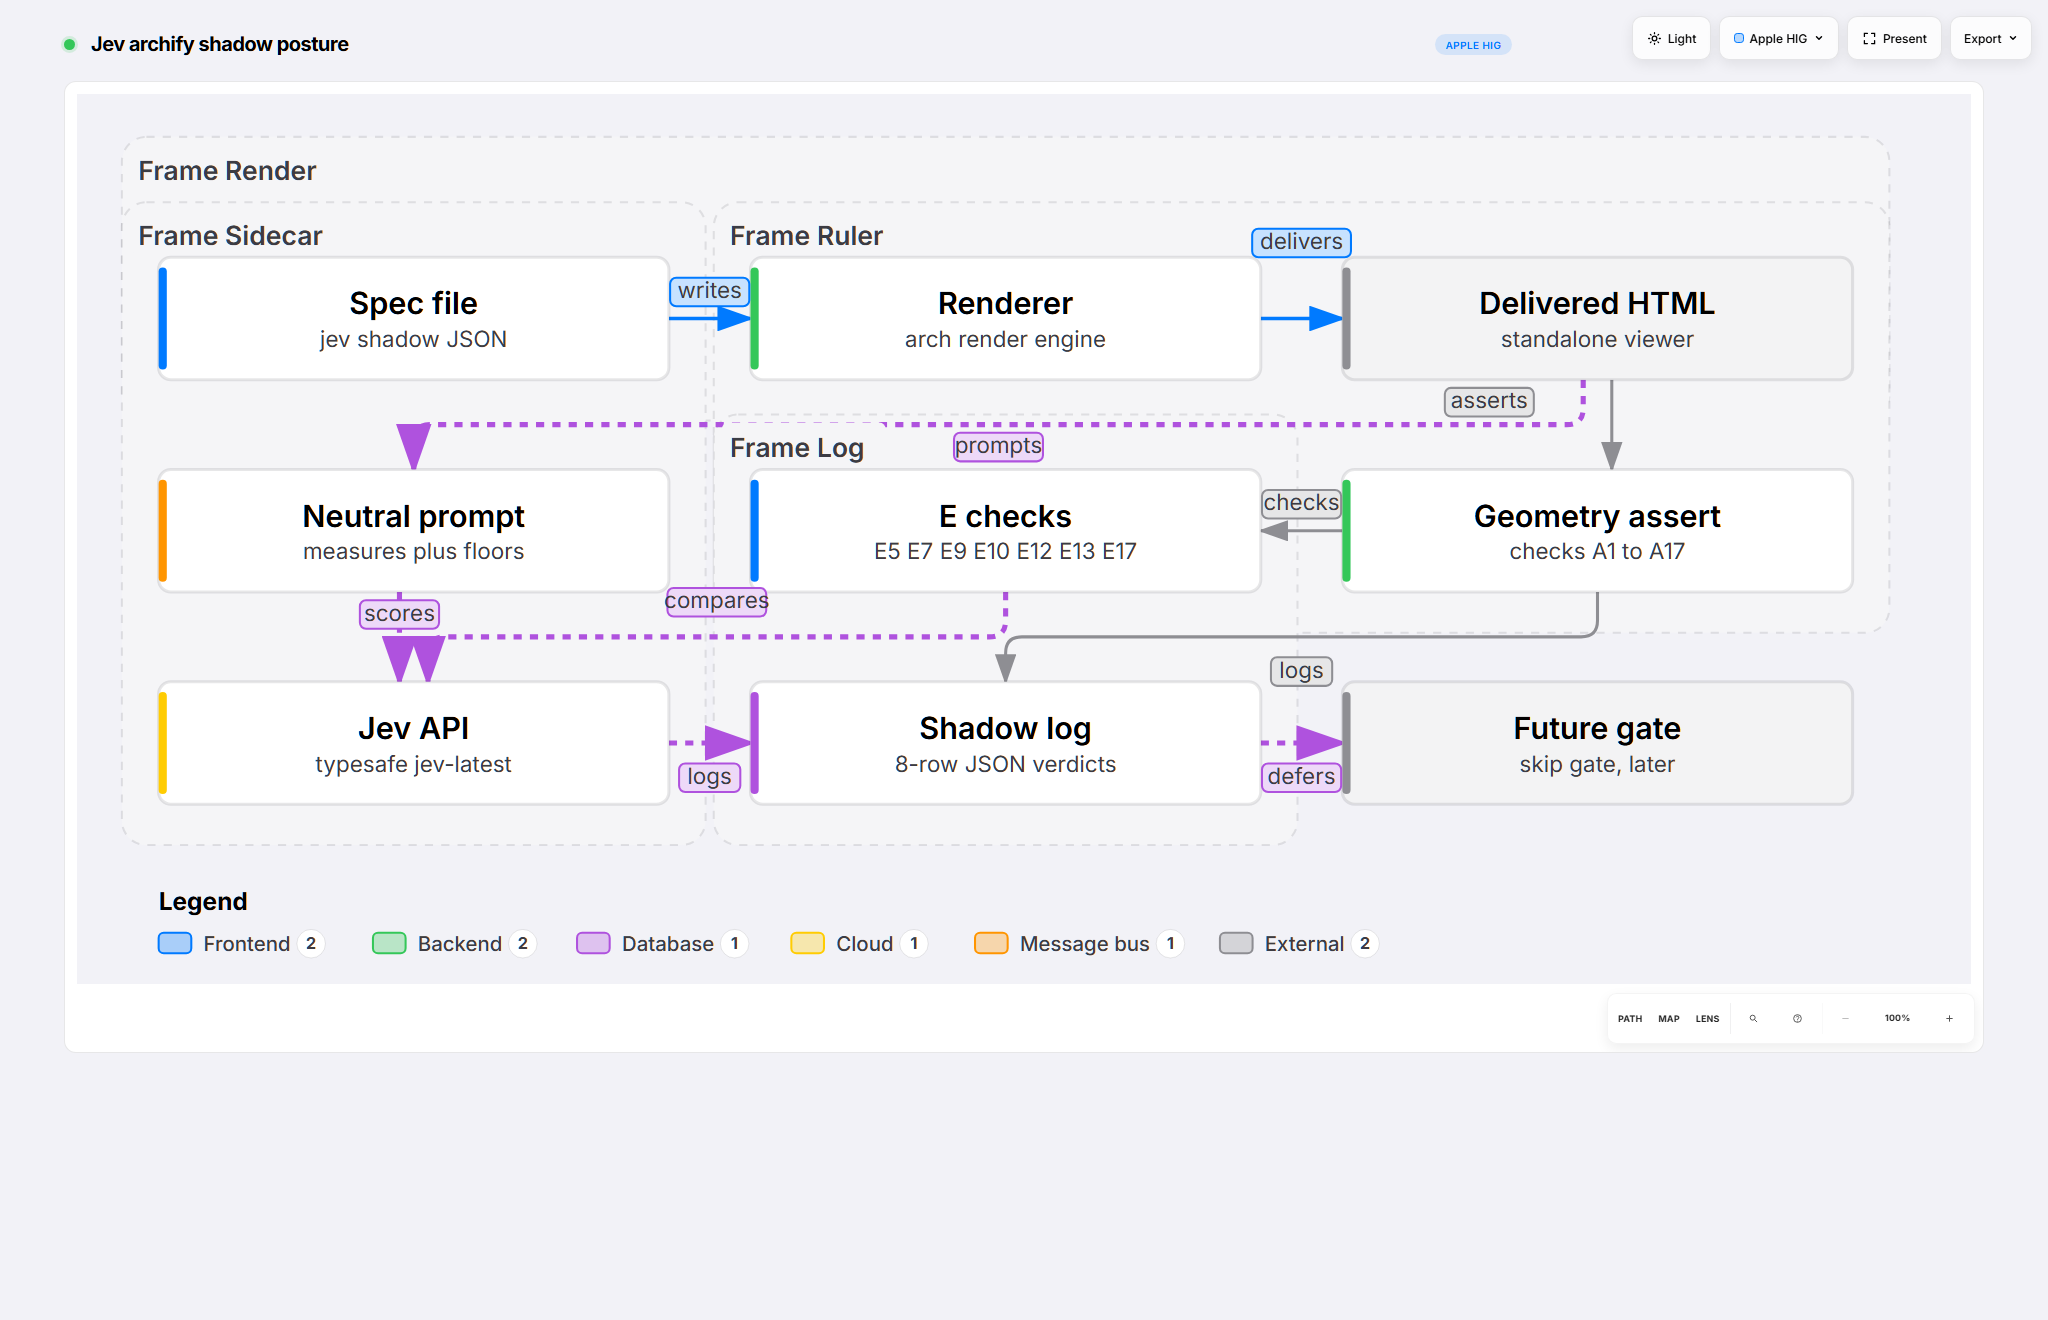
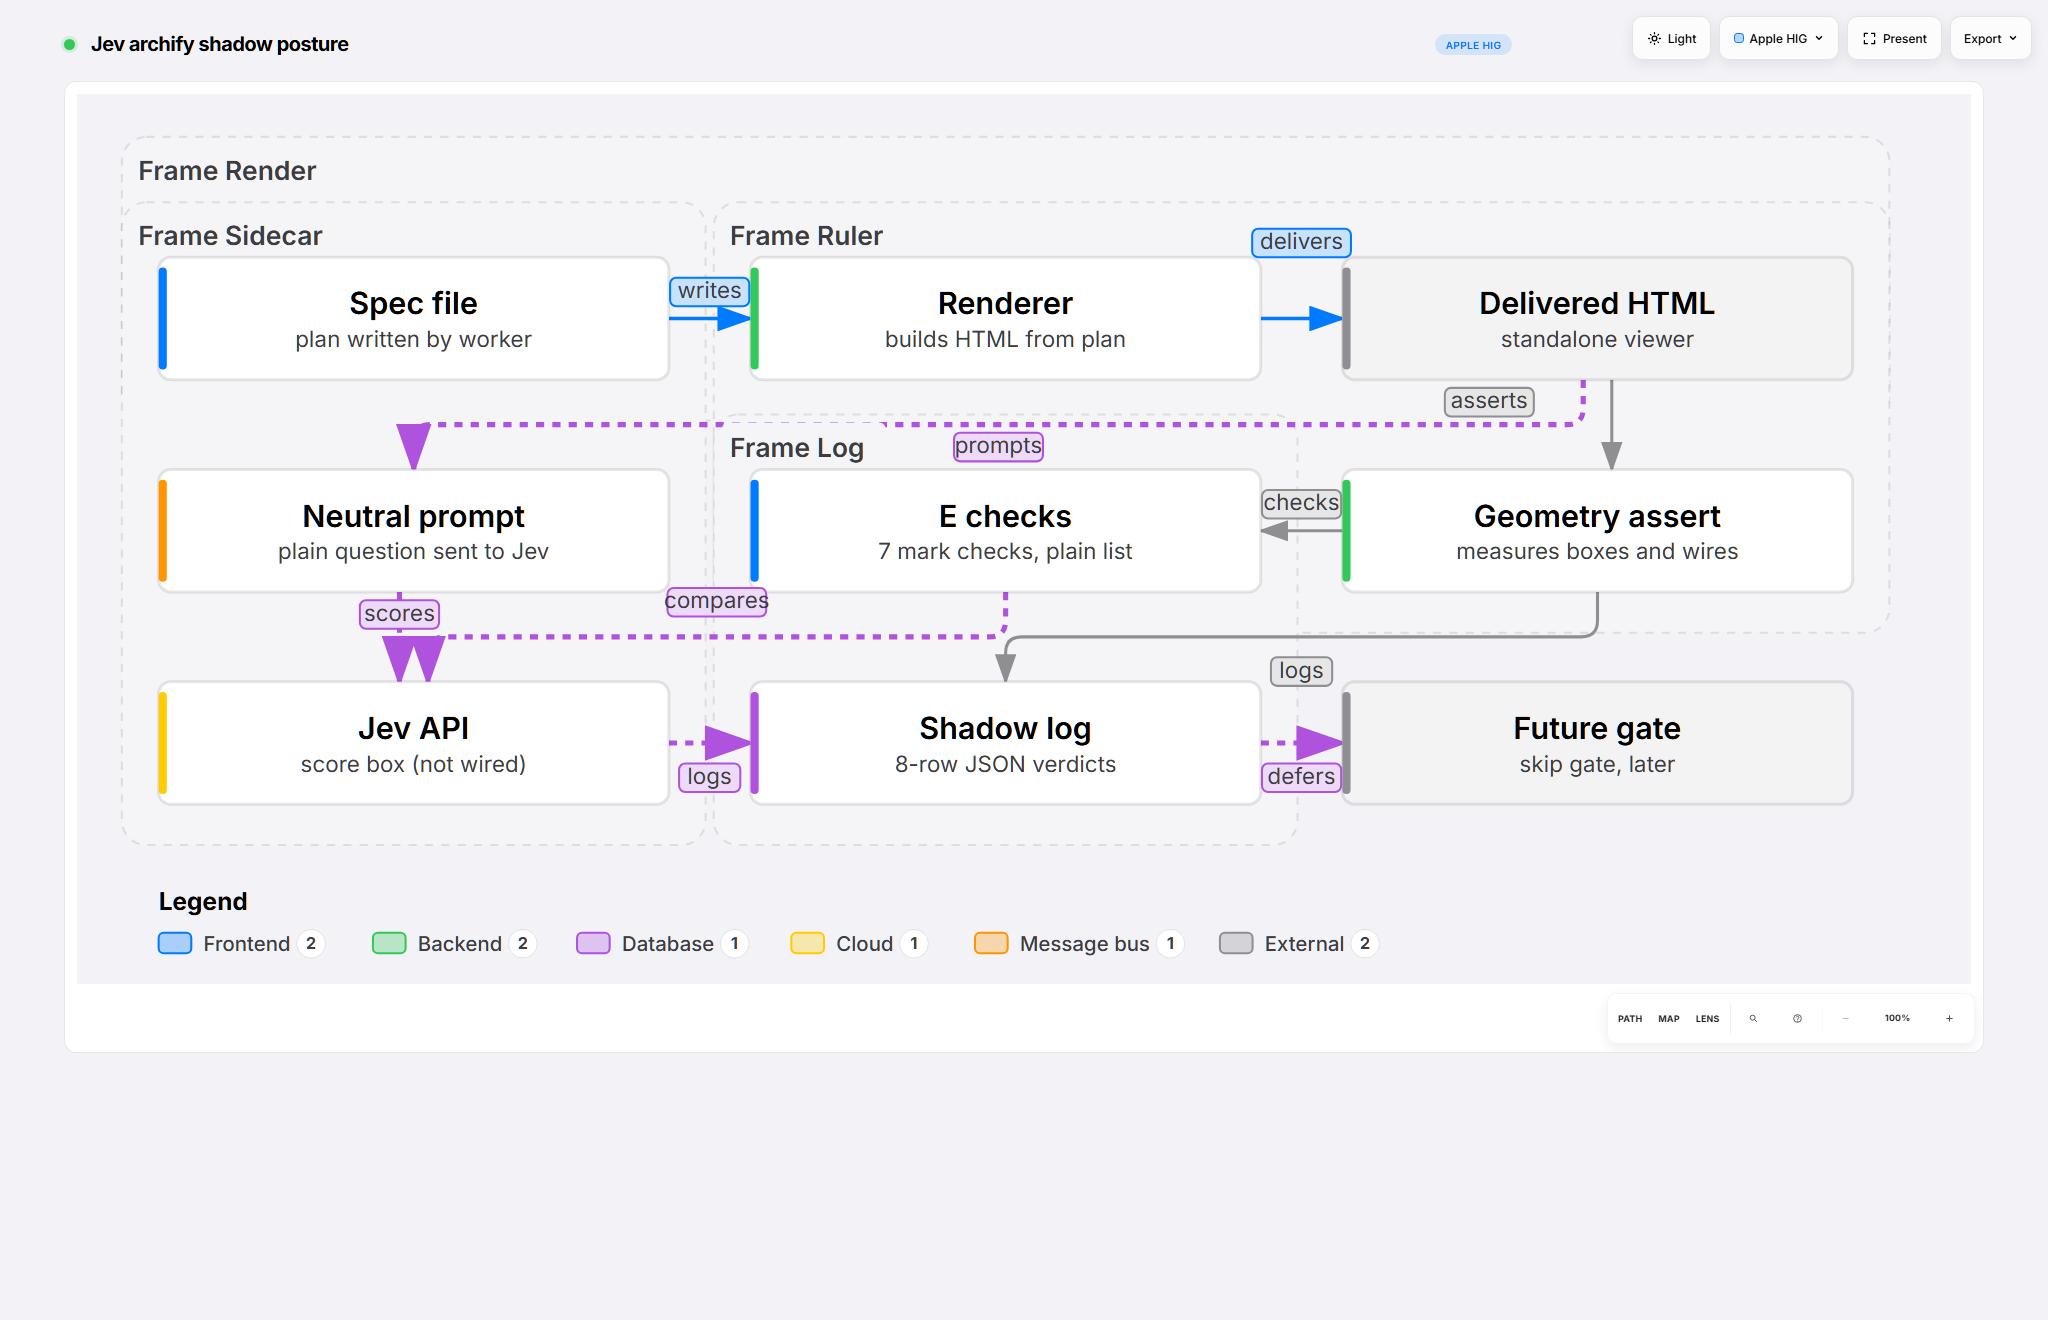
OSM-CONS-113 JEV relabel: 6 self-explainable sublabels (spec 39d4a131 + HTML 7682535a, validate 9/9, ruler+E9+vc re-probed, 0.1.2 held)

diff --git a/archify/sessions/OSM-CONS-113-JEV/jev-archify-shadow.html b/archify/sessions/OSM-CONS-113-JEV/jev-archify-shadow.html
@@ -5262,24 +5262,24 @@
         <path data-edge-from="shadow-log" data-edge-to="future-gate" data-edge-label="defers" data-edge-key="9" data-edge-id="shadow-defers-gate" data-element="dashed-wire" data-composition-points="580,318;620,318" d="M 580 318 L 620 318" class="a-dashed" stroke-width="2.5" marker-end="url(#arrowhead-dashed)"/>
 
         <!-- Components -->
-        <g id="node-spec-file" data-node-id="spec-file" data-node-label="Spec file" tabindex="0" role="button" aria-label="Focus Spec file, jev shadow JSON, Frame Render" aria-pressed="false" data-node-kind="frontend" data-node-sublabel="jev shadow JSON" data-node-context="Frame Render">
-          <title>Spec file · jev shadow JSON · Frame Render</title>
+        <g id="node-spec-file" data-node-id="spec-file" data-node-label="Spec file" tabindex="0" role="button" aria-label="Focus Spec file, plan written by worker, Frame Render" aria-pressed="false" data-node-kind="frontend" data-node-sublabel="plan written by worker" data-node-context="Frame Render">
+          <title>Spec file · plan written by worker · Frame Render</title>
           <rect x="40" y="80" width="250" height="60" rx="6" class="c-mask" data-element="node-card"/>
           <rect x="40" y="80" width="250" height="60" rx="6" class="c-frontend" data-element="node-card" stroke-width="1.5"/>
           <rect x="40" y="85" width="4" height="50" rx="2" class="c-accent" data-accent-kind="frontend" data-element="node-accent-bar"/>
           <g aria-hidden="true" data-semantic-sigil="frontend" class="semantic-sigil s-frontend" transform="translate(46 86) scale(0.6875)"></g>
           <text data-node-label data-detail-anchor x="165" y="108" class="t-primary" font-size="15" font-weight="600" text-anchor="middle">Spec file</text>
-        <text data-detail="context" x="165" y="124" class="t-muted" font-size="11" text-anchor="middle">jev shadow JSON</text>
+        <text data-detail="context" x="165" y="124" class="t-muted" font-size="11" text-anchor="middle">plan written by worker</text>
         </g>
 
-        <g id="node-renderer" data-node-id="renderer" data-node-label="Renderer" tabindex="0" role="button" aria-label="Focus Renderer, arch render engine, Frame Render" aria-pressed="false" data-node-kind="backend" data-node-sublabel="arch render engine" data-node-context="Frame Render">
-          <title>Renderer · arch render engine · Frame Render</title>
+        <g id="node-renderer" data-node-id="renderer" data-node-label="Renderer" tabindex="0" role="button" aria-label="Focus Renderer, builds HTML from plan, Frame Render" aria-pressed="false" data-node-kind="backend" data-node-sublabel="builds HTML from plan" data-node-context="Frame Render">
+          <title>Renderer · builds HTML from plan · Frame Render</title>
           <rect x="330" y="80" width="250" height="60" rx="6" class="c-mask" data-element="node-card"/>
           <rect x="330" y="80" width="250" height="60" rx="6" class="c-backend" data-element="node-card" stroke-width="1.5"/>
           <rect x="330" y="85" width="4" height="50" rx="2" class="c-accent" data-accent-kind="backend" data-element="node-accent-bar"/>
           <g aria-hidden="true" data-semantic-sigil="backend" class="semantic-sigil s-backend" transform="translate(336 86) scale(0.6875)"></g>
           <text data-node-label data-detail-anchor x="455" y="108" class="t-primary" font-size="15" font-weight="600" text-anchor="middle">Renderer</text>
-        <text data-detail="context" x="455" y="124" class="t-muted" font-size="11" text-anchor="middle">arch render engine</text>
+        <text data-detail="context" x="455" y="124" class="t-muted" font-size="11" text-anchor="middle">builds HTML from plan</text>
         </g>
 
         <g id="node-delivered-html" data-node-id="delivered-html" data-node-label="Delivered HTML" tabindex="0" role="button" aria-label="Focus Delivered HTML, standalone viewer, Frame Render" aria-pressed="false" data-node-kind="external" data-node-sublabel="standalone viewer" data-node-context="Frame Render">
@@ -5292,44 +5292,44 @@
         <text data-detail="context" x="745" y="124" class="t-muted" font-size="11" text-anchor="middle">standalone viewer</text>
         </g>
 
-        <g id="node-geometry-assert" data-node-id="geometry-assert" data-node-label="Geometry assert" tabindex="0" role="button" aria-label="Focus Geometry assert, checks A1 to A17, Frame Ruler" aria-pressed="false" data-node-kind="backend" data-node-sublabel="checks A1 to A17" data-node-context="Frame Ruler">
-          <title>Geometry assert · checks A1 to A17 · Frame Ruler</title>
+        <g id="node-geometry-assert" data-node-id="geometry-assert" data-node-label="Geometry assert" tabindex="0" role="button" aria-label="Focus Geometry assert, measures boxes and wires, Frame Ruler" aria-pressed="false" data-node-kind="backend" data-node-sublabel="measures boxes and wires" data-node-context="Frame Ruler">
+          <title>Geometry assert · measures boxes and wires · Frame Ruler</title>
           <rect x="620" y="184" width="250" height="60" rx="6" class="c-mask" data-element="node-card"/>
           <rect x="620" y="184" width="250" height="60" rx="6" class="c-backend" data-element="node-card" stroke-width="1.5"/>
           <rect x="620" y="189" width="4" height="50" rx="2" class="c-accent" data-accent-kind="backend" data-element="node-accent-bar"/>
           <g aria-hidden="true" data-semantic-sigil="backend" class="semantic-sigil s-backend" transform="translate(626 190) scale(0.6875)"></g>
           <text data-node-label data-detail-anchor x="745" y="212" class="t-primary" font-size="15" font-weight="600" text-anchor="middle">Geometry assert</text>
-        <text data-detail="context" x="745" y="228" class="t-muted" font-size="11" text-anchor="middle">checks A1 to A17</text>
+        <text data-detail="context" x="745" y="228" class="t-muted" font-size="11" text-anchor="middle">measures boxes and wires</text>
         </g>
 
-        <g id="node-e-checks" data-node-id="e-checks" data-node-label="E checks" tabindex="0" role="button" aria-label="Focus E checks, E5 E7 E9 E10 E12 E13 E17, Frame Ruler" aria-pressed="false" data-node-kind="frontend" data-node-sublabel="E5 E7 E9 E10 E12 E13 E17" data-node-context="Frame Ruler">
-          <title>E checks · E5 E7 E9 E10 E12 E13 E17 · Frame Ruler</title>
+        <g id="node-e-checks" data-node-id="e-checks" data-node-label="E checks" tabindex="0" role="button" aria-label="Focus E checks, 7 mark checks, plain list, Frame Ruler" aria-pressed="false" data-node-kind="frontend" data-node-sublabel="7 mark checks, plain list" data-node-context="Frame Ruler">
+          <title>E checks · 7 mark checks, plain list · Frame Ruler</title>
           <rect x="330" y="184" width="250" height="60" rx="6" class="c-mask" data-element="node-card"/>
           <rect x="330" y="184" width="250" height="60" rx="6" class="c-frontend" data-element="node-card" stroke-width="1.5"/>
           <rect x="330" y="189" width="4" height="50" rx="2" class="c-accent" data-accent-kind="frontend" data-element="node-accent-bar"/>
           <g aria-hidden="true" data-semantic-sigil="frontend" class="semantic-sigil s-frontend" transform="translate(336 190) scale(0.6875)"></g>
           <text data-node-label data-detail-anchor x="455" y="212" class="t-primary" font-size="15" font-weight="600" text-anchor="middle">E checks</text>
-        <text data-detail="context" x="455" y="228" class="t-muted" font-size="11" text-anchor="middle">E5 E7 E9 E10 E12 E13 E17</text>
+        <text data-detail="context" x="455" y="228" class="t-muted" font-size="11" text-anchor="middle">7 mark checks, plain list</text>
         </g>
 
-        <g id="node-neutral-prompt" data-node-id="neutral-prompt" data-node-label="Neutral prompt" tabindex="0" role="button" aria-label="Focus Neutral prompt, measures plus floors, Frame Sidecar" aria-pressed="false" data-node-kind="messagebus" data-node-sublabel="measures plus floors" data-node-context="Frame Sidecar">
-          <title>Neutral prompt · measures plus floors · Frame Sidecar</title>
+        <g id="node-neutral-prompt" data-node-id="neutral-prompt" data-node-label="Neutral prompt" tabindex="0" role="button" aria-label="Focus Neutral prompt, plain question sent to Jev, Frame Sidecar" aria-pressed="false" data-node-kind="messagebus" data-node-sublabel="plain question sent to Jev" data-node-context="Frame Sidecar">
+          <title>Neutral prompt · plain question sent to Jev · Frame Sidecar</title>
           <rect x="40" y="184" width="250" height="60" rx="6" class="c-mask" data-element="node-card"/>
           <rect x="40" y="184" width="250" height="60" rx="6" class="c-messagebus" data-element="node-card" stroke-width="1.5"/>
           <rect x="40" y="189" width="4" height="50" rx="2" class="c-accent" data-accent-kind="messagebus" data-element="node-accent-bar"/>
           <g aria-hidden="true" data-semantic-sigil="messagebus" class="semantic-sigil s-messagebus" transform="translate(46 190) scale(0.6875)"></g>
           <text data-node-label data-detail-anchor x="165" y="212" class="t-primary" font-size="15" font-weight="600" text-anchor="middle">Neutral prompt</text>
-        <text data-detail="context" x="165" y="228" class="t-muted" font-size="11" text-anchor="middle">measures plus floors</text>
+        <text data-detail="context" x="165" y="228" class="t-muted" font-size="11" text-anchor="middle">plain question sent to Jev</text>
         </g>
 
-        <g id="node-jev-api" data-node-id="jev-api" data-node-label="Jev API" tabindex="0" role="button" aria-label="Focus Jev API, typesafe jev-latest, Frame Sidecar" aria-pressed="false" data-node-kind="cloud" data-node-sublabel="typesafe jev-latest" data-node-context="Frame Sidecar">
-          <title>Jev API · typesafe jev-latest · Frame Sidecar</title>
+        <g id="node-jev-api" data-node-id="jev-api" data-node-label="Jev API" tabindex="0" role="button" aria-label="Focus Jev API, score box (not wired), Frame Sidecar" aria-pressed="false" data-node-kind="cloud" data-node-sublabel="score box (not wired)" data-node-context="Frame Sidecar">
+          <title>Jev API · score box (not wired) · Frame Sidecar</title>
           <rect x="40" y="288" width="250" height="60" rx="6" class="c-mask" data-element="node-card"/>
           <rect x="40" y="288" width="250" height="60" rx="6" class="c-cloud" data-element="node-card" stroke-width="1.5"/>
           <rect x="40" y="293" width="4" height="50" rx="2" class="c-accent" data-accent-kind="cloud" data-element="node-accent-bar"/>
           <g aria-hidden="true" data-semantic-sigil="cloud" class="semantic-sigil s-cloud" transform="translate(46 294) scale(0.6875)"></g>
           <text data-node-label data-detail-anchor x="165" y="316" class="t-primary" font-size="15" font-weight="600" text-anchor="middle">Jev API</text>
-        <text data-detail="context" x="165" y="332" class="t-muted" font-size="11" text-anchor="middle">typesafe jev-latest</text>
+        <text data-detail="context" x="165" y="332" class="t-muted" font-size="11" text-anchor="middle">score box (not wired)</text>
         </g>
 
         <g id="node-shadow-log" data-node-id="shadow-log" data-node-label="Shadow log" tabindex="0" role="button" aria-label="Focus Shadow log, 8-row JSON verdicts, Frame Log" aria-pressed="false" data-node-kind="database" data-node-sublabel="8-row JSON verdicts" data-node-context="Frame Log">
